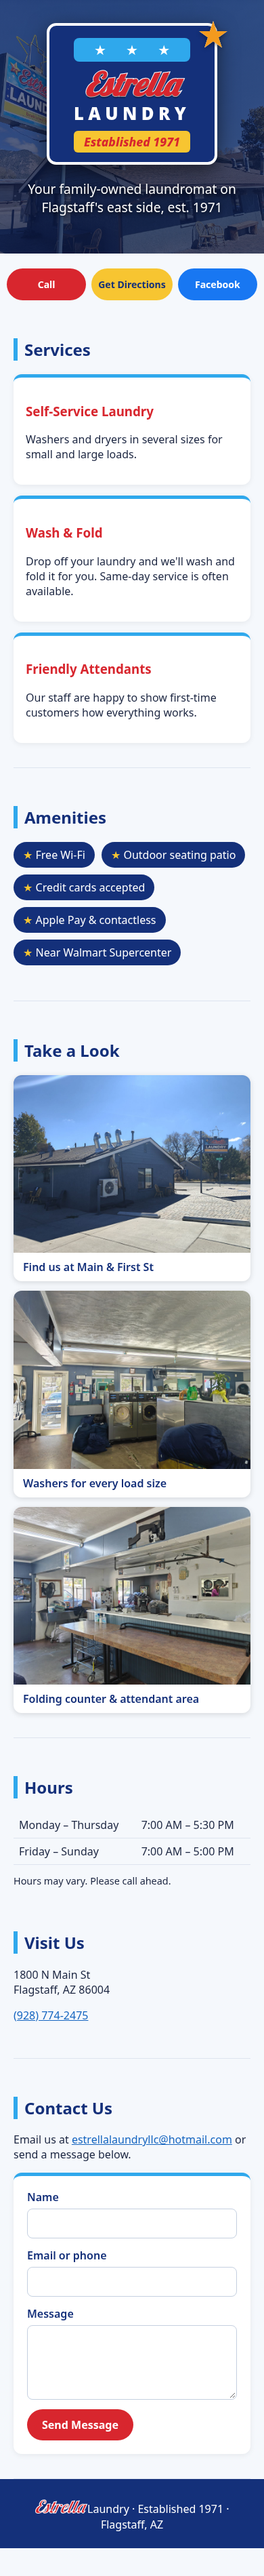
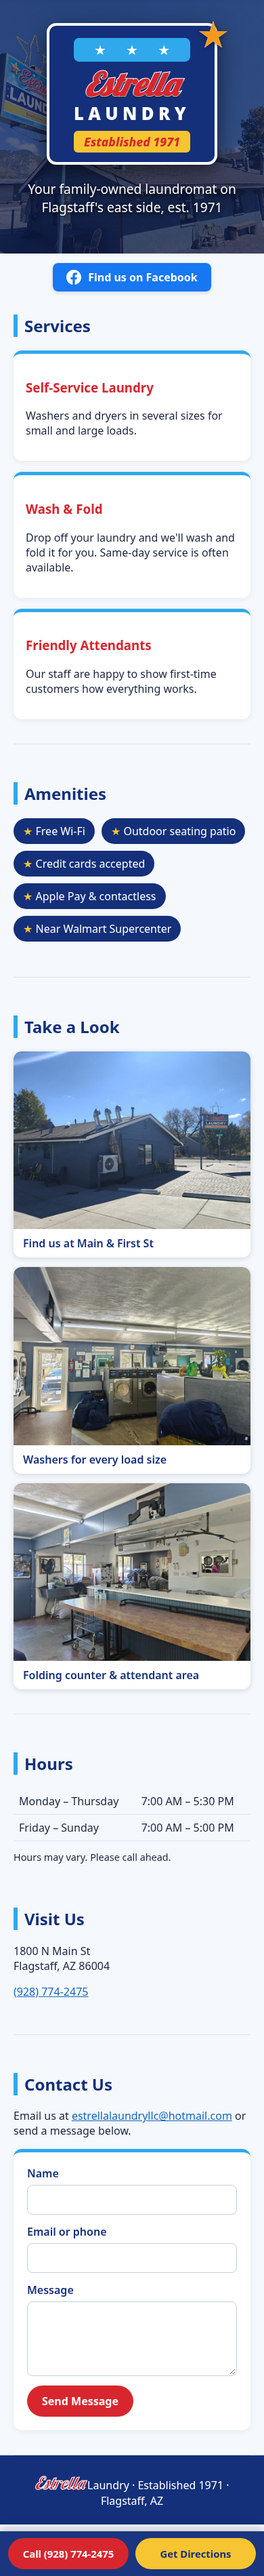
Fixed bottom call/directions bar; Facebook-branded button; tighter spacing

diff --git a/index.html b/index.html
@@ -1,4 +1,4 @@
-<!doctype html><html lang="en"><head><meta charset="utf-8"><meta name="viewport" content="width=device-width,initial-scale=1">
+<!doctype html><html lang="en"><head><meta charset="utf-8"><meta name="viewport" content="width=device-width,initial-scale=1,viewport-fit=cover">
 <title>Estrella Laundry | Laundromat &amp; Wash-and-Fold in Flagstaff, AZ</title>
 <meta name="description" content="Estrella Laundry, a family-owned laundromat at 1800 N Main St, Flagstaff, AZ, established 1971. Self-service washers and dryers, wash and fold, and free Wi-Fi. Call (928) 774-2475.">
 <link rel="canonical" href="https://estrellalaundry.com/">
@@ -9,7 +9,7 @@
 <div class="stars">★ ★ ★</div><div class="word">Estrella</div><div class="laundry">LAUNDRY</div>
 <div class="band">Established 1971</div><div class="gold">★</div></div>
 <p class="tag">Your family-owned laundromat on Flagstaff's east side, est. 1971</p></header>
-<div class="btns cta"><a class="btn" href="tel:+19287742475">Call<span class="ph-num"> (928) 774-2475</span></a><a class="btn alt" href="https://www.google.com/maps/dir/?api=1&destination=1800+N+Main+St,+Flagstaff,+AZ+86004">Get Directions</a><a class="btn fb" href="https://www.facebook.com/244273295962405">Facebook</a></div>
+<div class="fbwrap"><a class="fbbtn" href="https://www.facebook.com/244273295962405" target="_blank" rel="noopener"><svg viewBox="0 0 24 24" width="22" height="22" aria-hidden="true"><path fill="#fff" d="M24 12.07C24 5.41 18.63 0 12 0S0 5.4 0 12.07C0 18.1 4.39 23.1 10.13 24v-8.44H7.08v-3.49h3.04V9.41c0-3.02 1.8-4.7 4.54-4.7 1.31 0 2.68.24 2.68.24v2.97h-1.5c-1.5 0-1.96.93-1.96 1.89v2.26h3.32l-.53 3.5h-2.8V24C19.62 23.1 24 18.1 24 12.07"/></svg>Find us on Facebook</a></div>
 <main class="wrap">
 <section><h2>Services</h2><div class="grid">
 <div class="card"><h3>Self-Service Laundry</h3><p>Washers and dryers in several sizes for small and large loads.</p></div>
@@ -37,4 +37,5 @@
 <label>Email or phone<input type="text" name="email_or_phone" required></label>
 <label class="full">Message<textarea name="message" rows="4" required></textarea></label>
 <button class="btn" type="submit">Send Message</button></form></section>
-</main><footer><span class="fw">Estrella</span> Laundry · Established 1971 · Flagstaff, AZ</footer></body></html>
+</main><footer><span class="fw">Estrella</span> Laundry · Established 1971 · Flagstaff, AZ</footer>
+<nav class="bottombar" aria-label="Quick actions"><a class="btn" href="tel:+19287742475">Call (928) 774-2475</a><a class="btn alt" href="https://www.google.com/maps/dir/?api=1&destination=1800+N+Main+St,+Flagstaff,+AZ+86004">Get Directions</a></nav></body></html>

diff --git a/style.css b/style.css
@@ -28,6 +28,11 @@ figure img{width:100%;aspect-ratio:4/3;object-fit:cover;display:block}figcaption
 .contact button{border:0;cursor:pointer;justify-self:start;font:inherit;font-weight:700}
 .thanks{display:none;background:var(--gold);color:var(--navy);padding:10px 14px;border-radius:8px;font-weight:700}.thanks:target{display:block}
 @media(max-width:600px){.contact{grid-template-columns:1fr}}
-.cta{display:grid;grid-template-columns:1fr 1fr 1fr;gap:10px;max-width:720px;margin:22px auto 0;padding:0 16px}
-.cta .btn{text-align:center;padding:14px 10px;white-space:nowrap;font-size:clamp(.85rem,3.6vw,1rem)}
-.btn.fb{background:#1877f2;color:#fff}@media(max-width:600px){.ph-num{display:none}.cta{padding:0 10px;gap:8px}}
+.fbwrap{text-align:center;padding:14px 16px 0}
+.fbbtn{display:inline-flex;align-items:center;gap:10px;background:#1877F2;color:#fff;font-weight:700;text-decoration:none;padding:10px 20px;border-radius:8px;box-shadow:0 2px 6px #0002}
+.fbbtn:hover{background:#166fe5}
+main.wrap>section:first-child{padding-top:14px}
+body{padding-bottom:calc(76px + env(safe-area-inset-bottom))}
+.bottombar{position:fixed;left:0;right:0;bottom:0;z-index:50;display:grid;grid-template-columns:1fr 1fr;gap:10px;padding:10px 12px calc(10px + env(safe-area-inset-bottom));background:rgba(20,48,122,.97);box-shadow:0 -4px 14px #0003}
+.bottombar .btn{text-align:center;padding:13px 8px;white-space:nowrap;font-size:clamp(.9rem,3.8vw,1.05rem);max-width:none}
+@media(min-width:700px){.bottombar{padding-left:calc(50% - 340px);padding-right:calc(50% - 340px)}}
